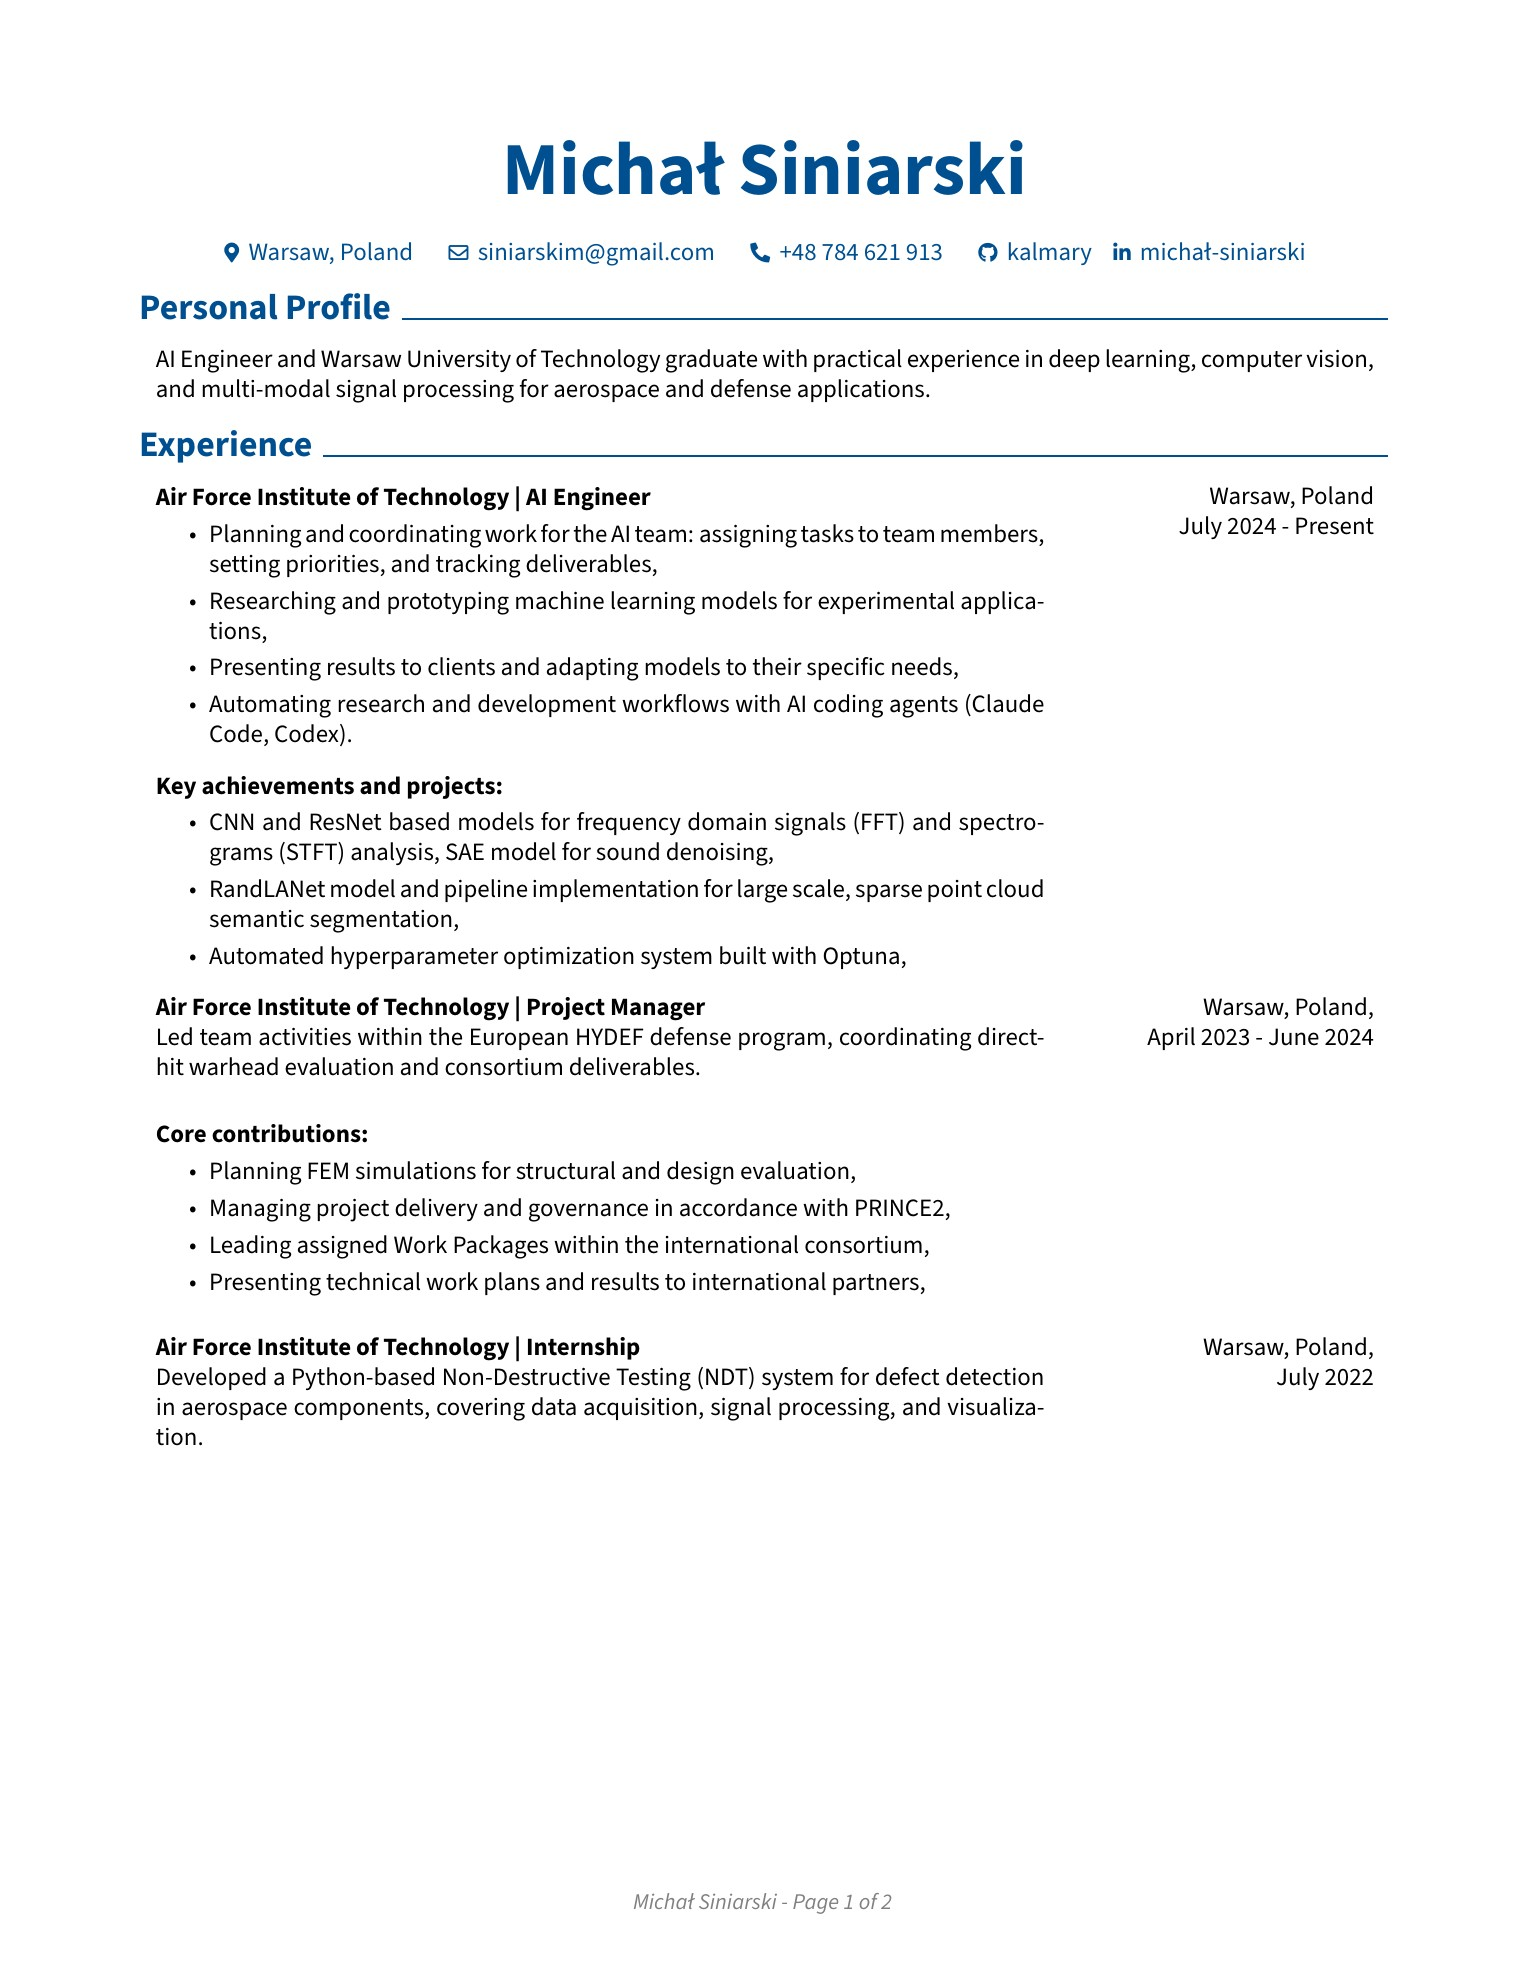
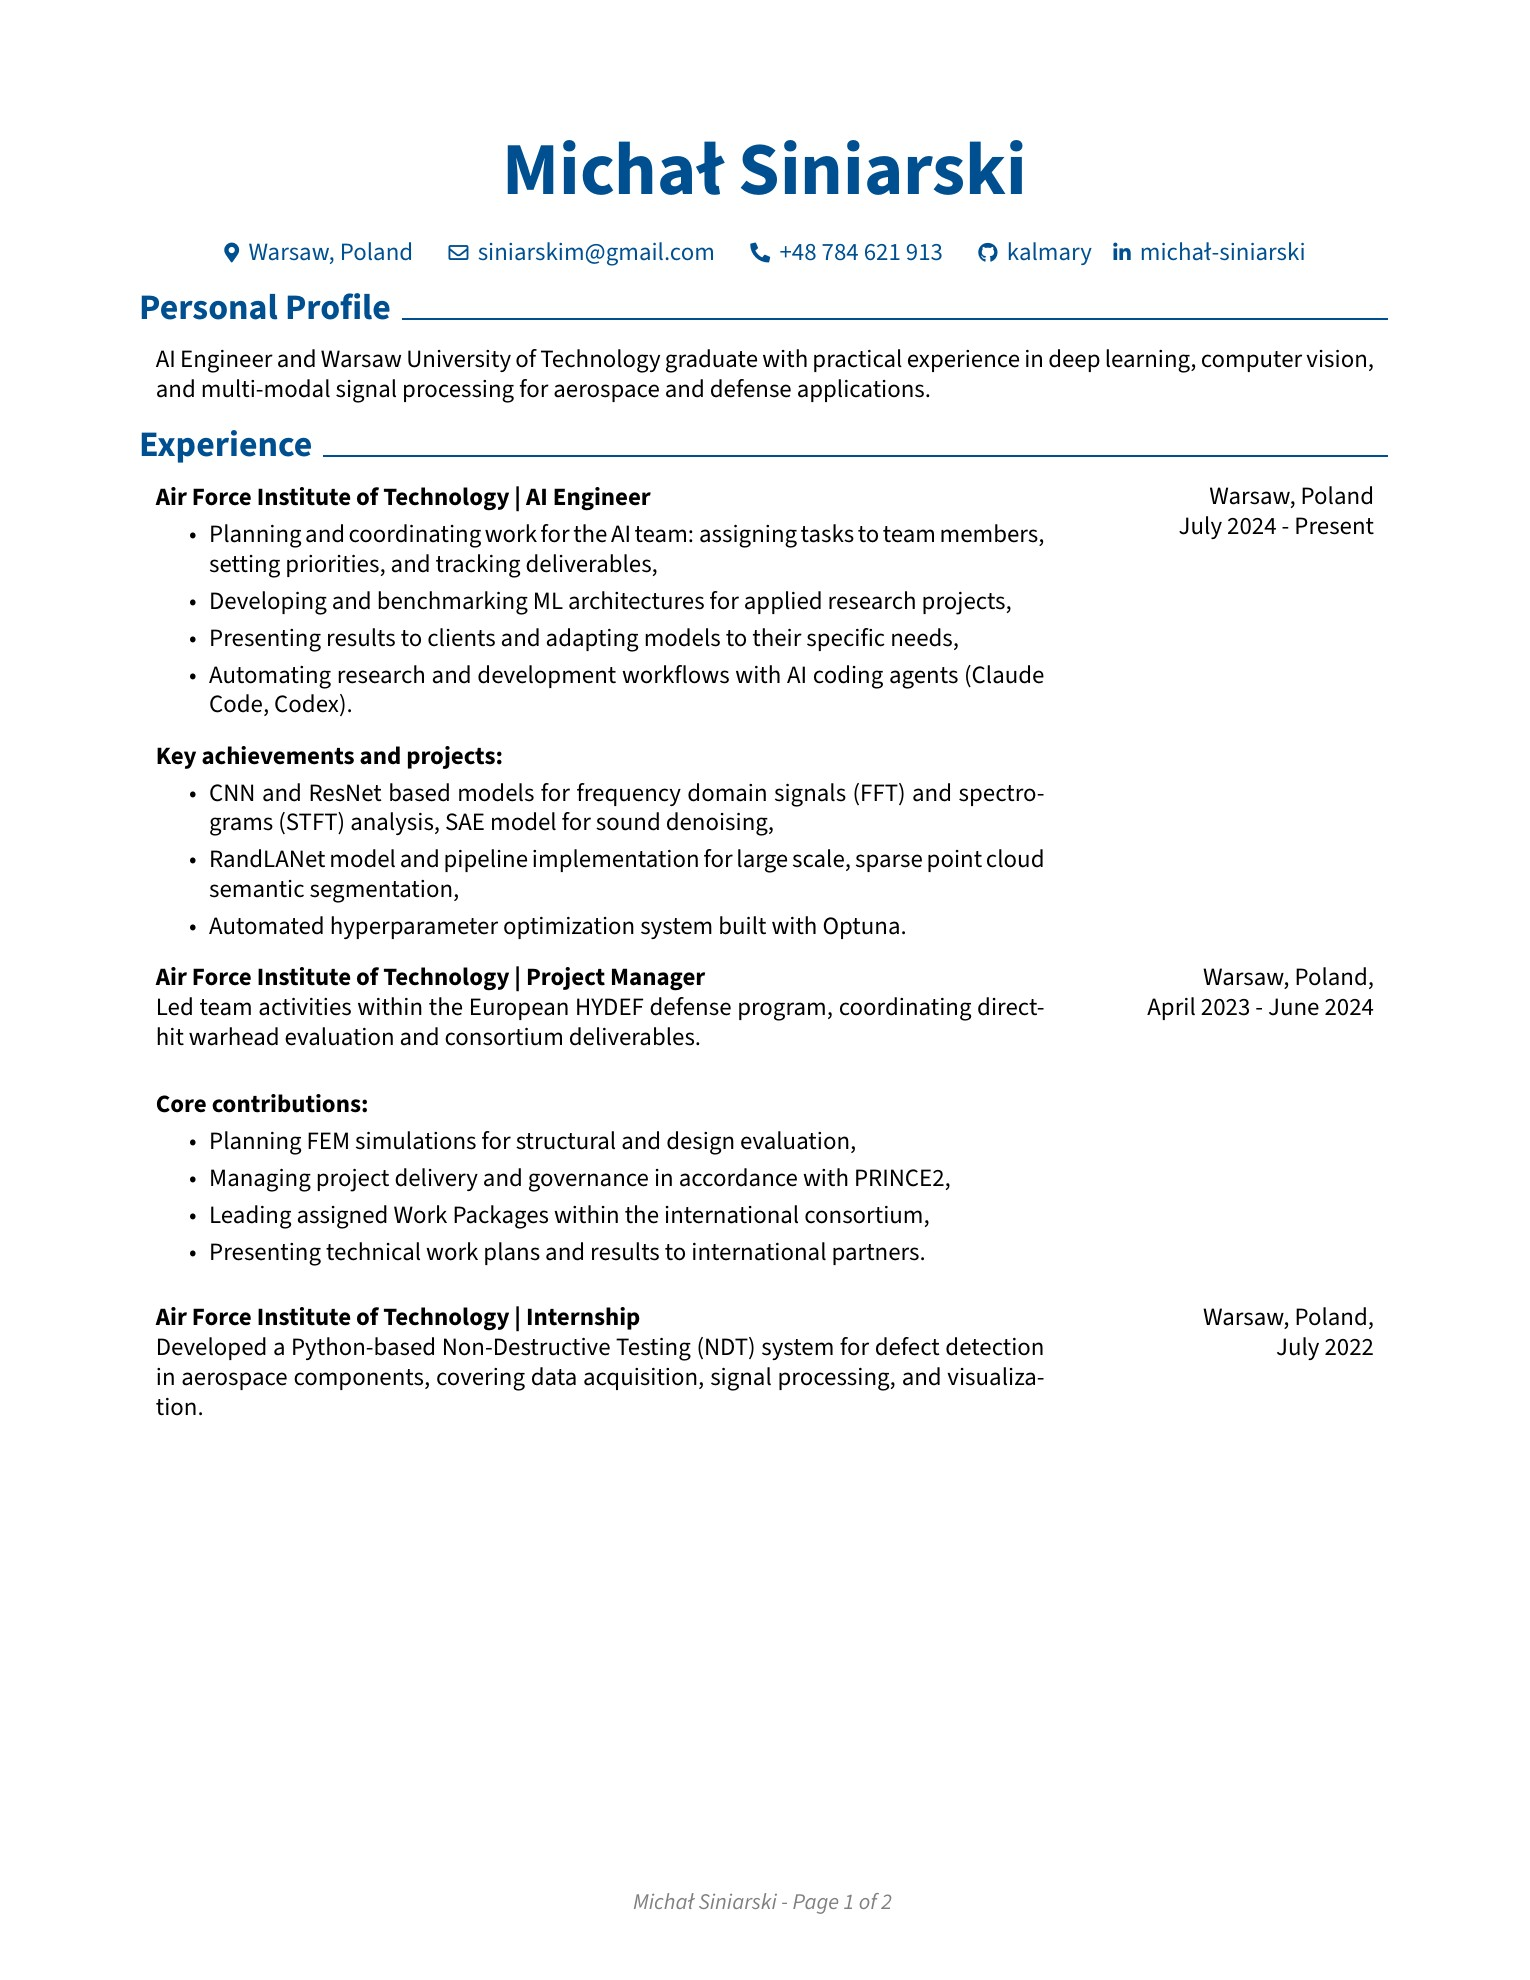
change experience

Changed region(s): [[0.0922, 0.2773, 0.6758, 0.7394], [0.7987, 0.647, 0.8908, 0.7086], [0.7373, 0.4929, 0.8908, 0.5237]]

diff --git a/text/experience.tex b/text/experience.tex
@@ -8,7 +8,7 @@
         \textbf{Air Force Institute of Technology | AI Engineer}
         \begin{highlights}
             \item Planning and coordinating work for the AI team: assigning tasks to team members, setting priorities, and tracking deliverables,
-            \item Researching and prototyping machine learning models for experimental applications,
+            \item Developing and benchmarking ML architectures for applied research projects,
             \item Presenting results to clients and adapting models to their specific needs,
             \item Automating research and development workflows with AI coding agents (Claude Code, Codex).
         \end{highlights}
@@ -19,7 +19,7 @@
         \begin{highlights}
             \item CNN and ResNet based models for frequency domain signals (FFT) and spectrograms (STFT) analysis, SAE model for sound denoising,
             \item RandLANet model and pipeline implementation for large scale, sparse point cloud semantic segmentation,
-            \item Automated hyperparameter optimization system built with Optuna,
+            \item Automated hyperparameter optimization system built with Optuna.
         \end{highlights}
     \end{twocolentry}
     
@@ -38,7 +38,7 @@
             \item Planning FEM simulations for structural and design evaluation,
             \item Managing project delivery and governance in accordance with PRINCE2,
             \item Leading assigned Work Packages within the international consortium,
-            \item Presenting technical work plans and results to international partners,
+            \item Presenting technical work plans and results to international partners.
         \end{highlights}
     \end{twocolentry}
 
